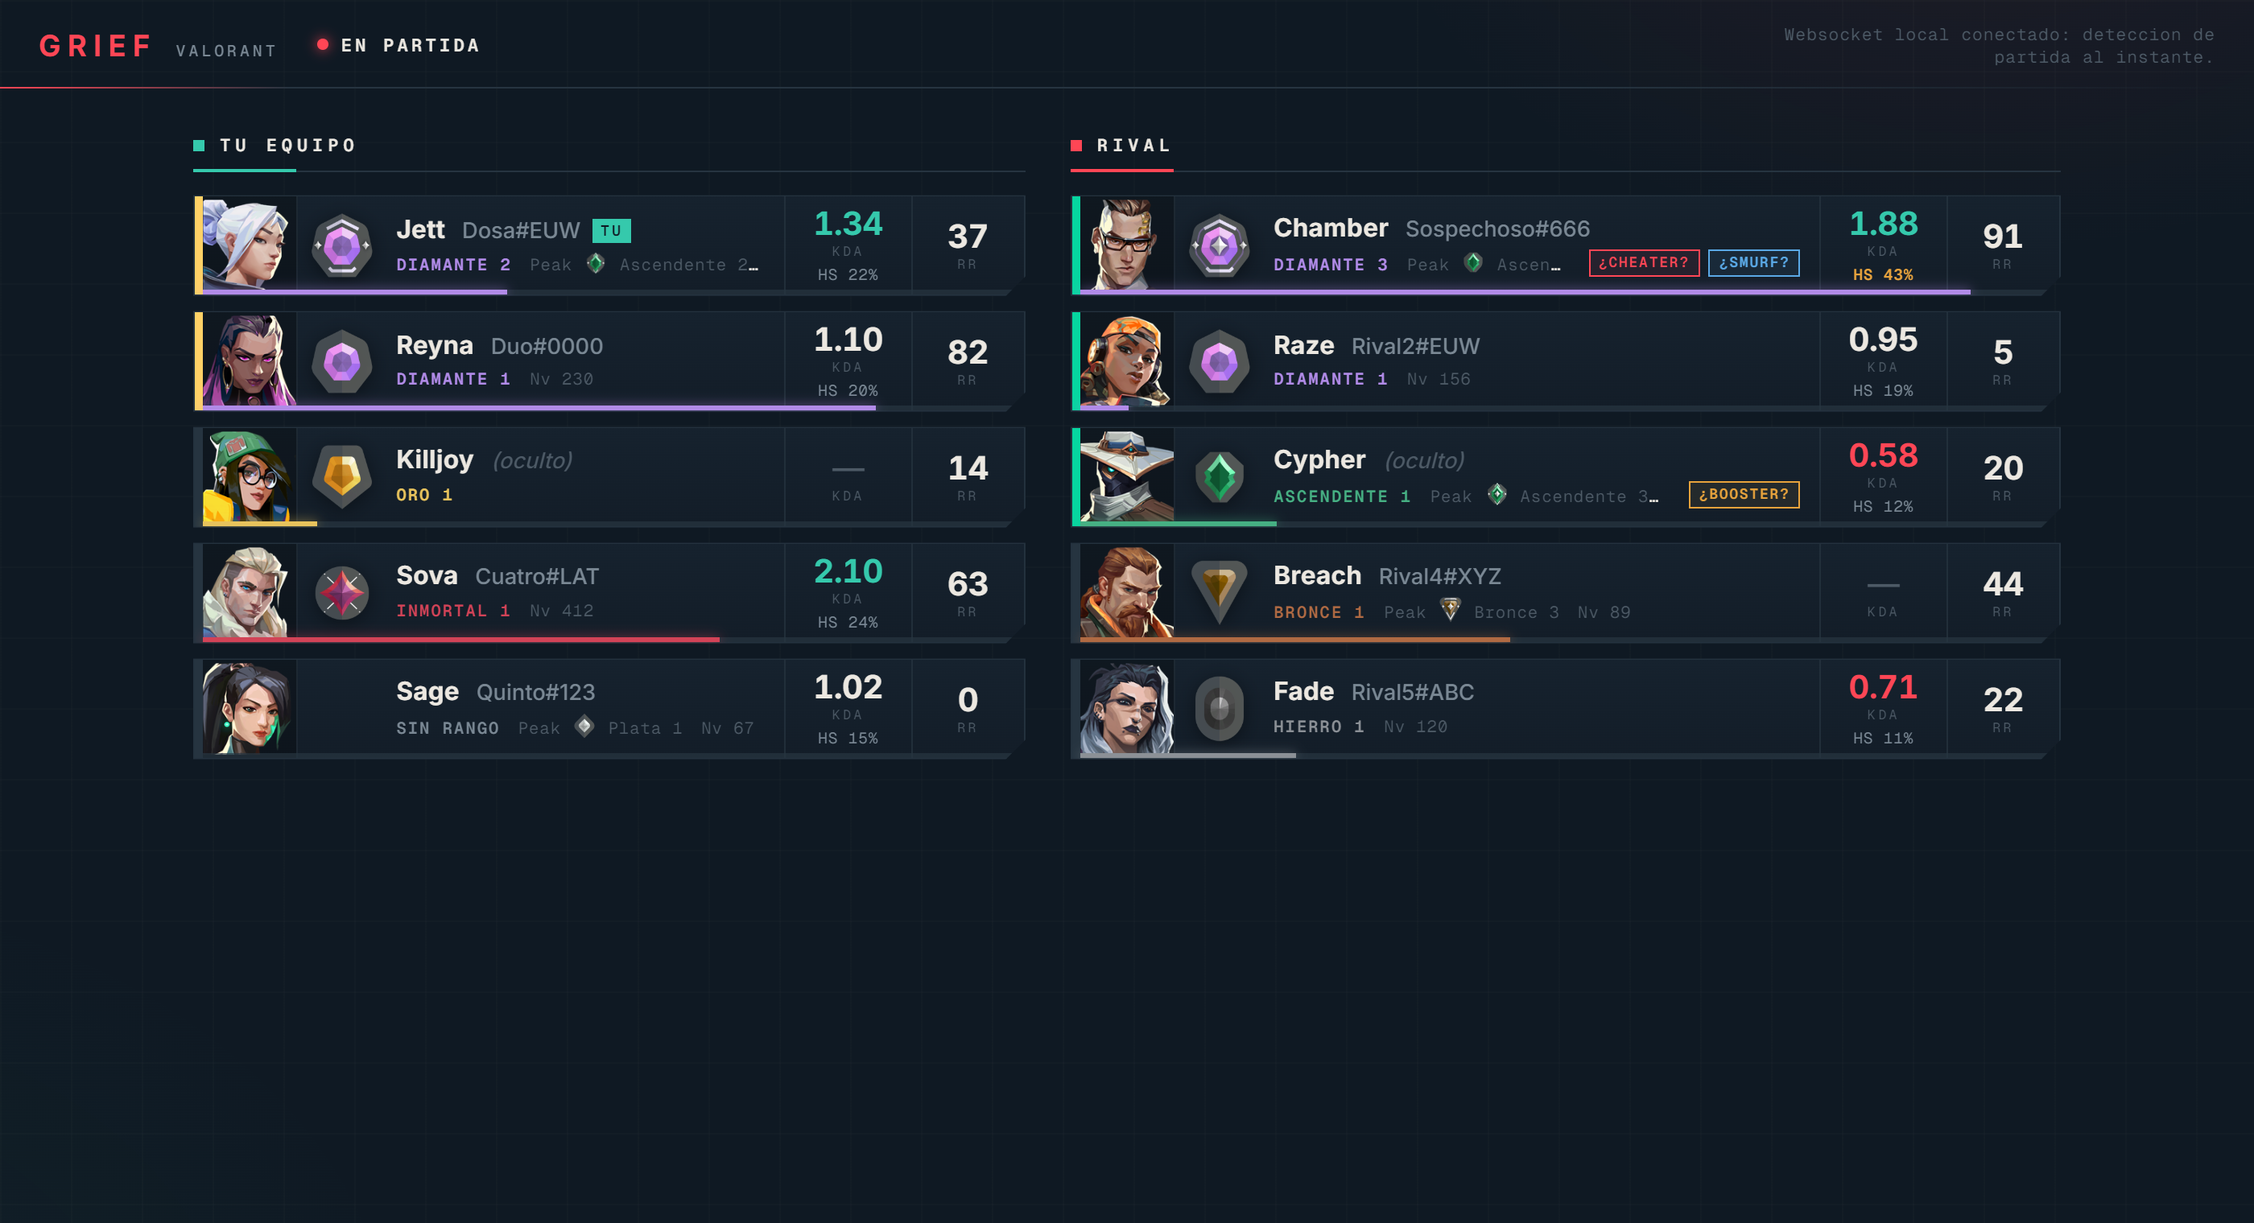
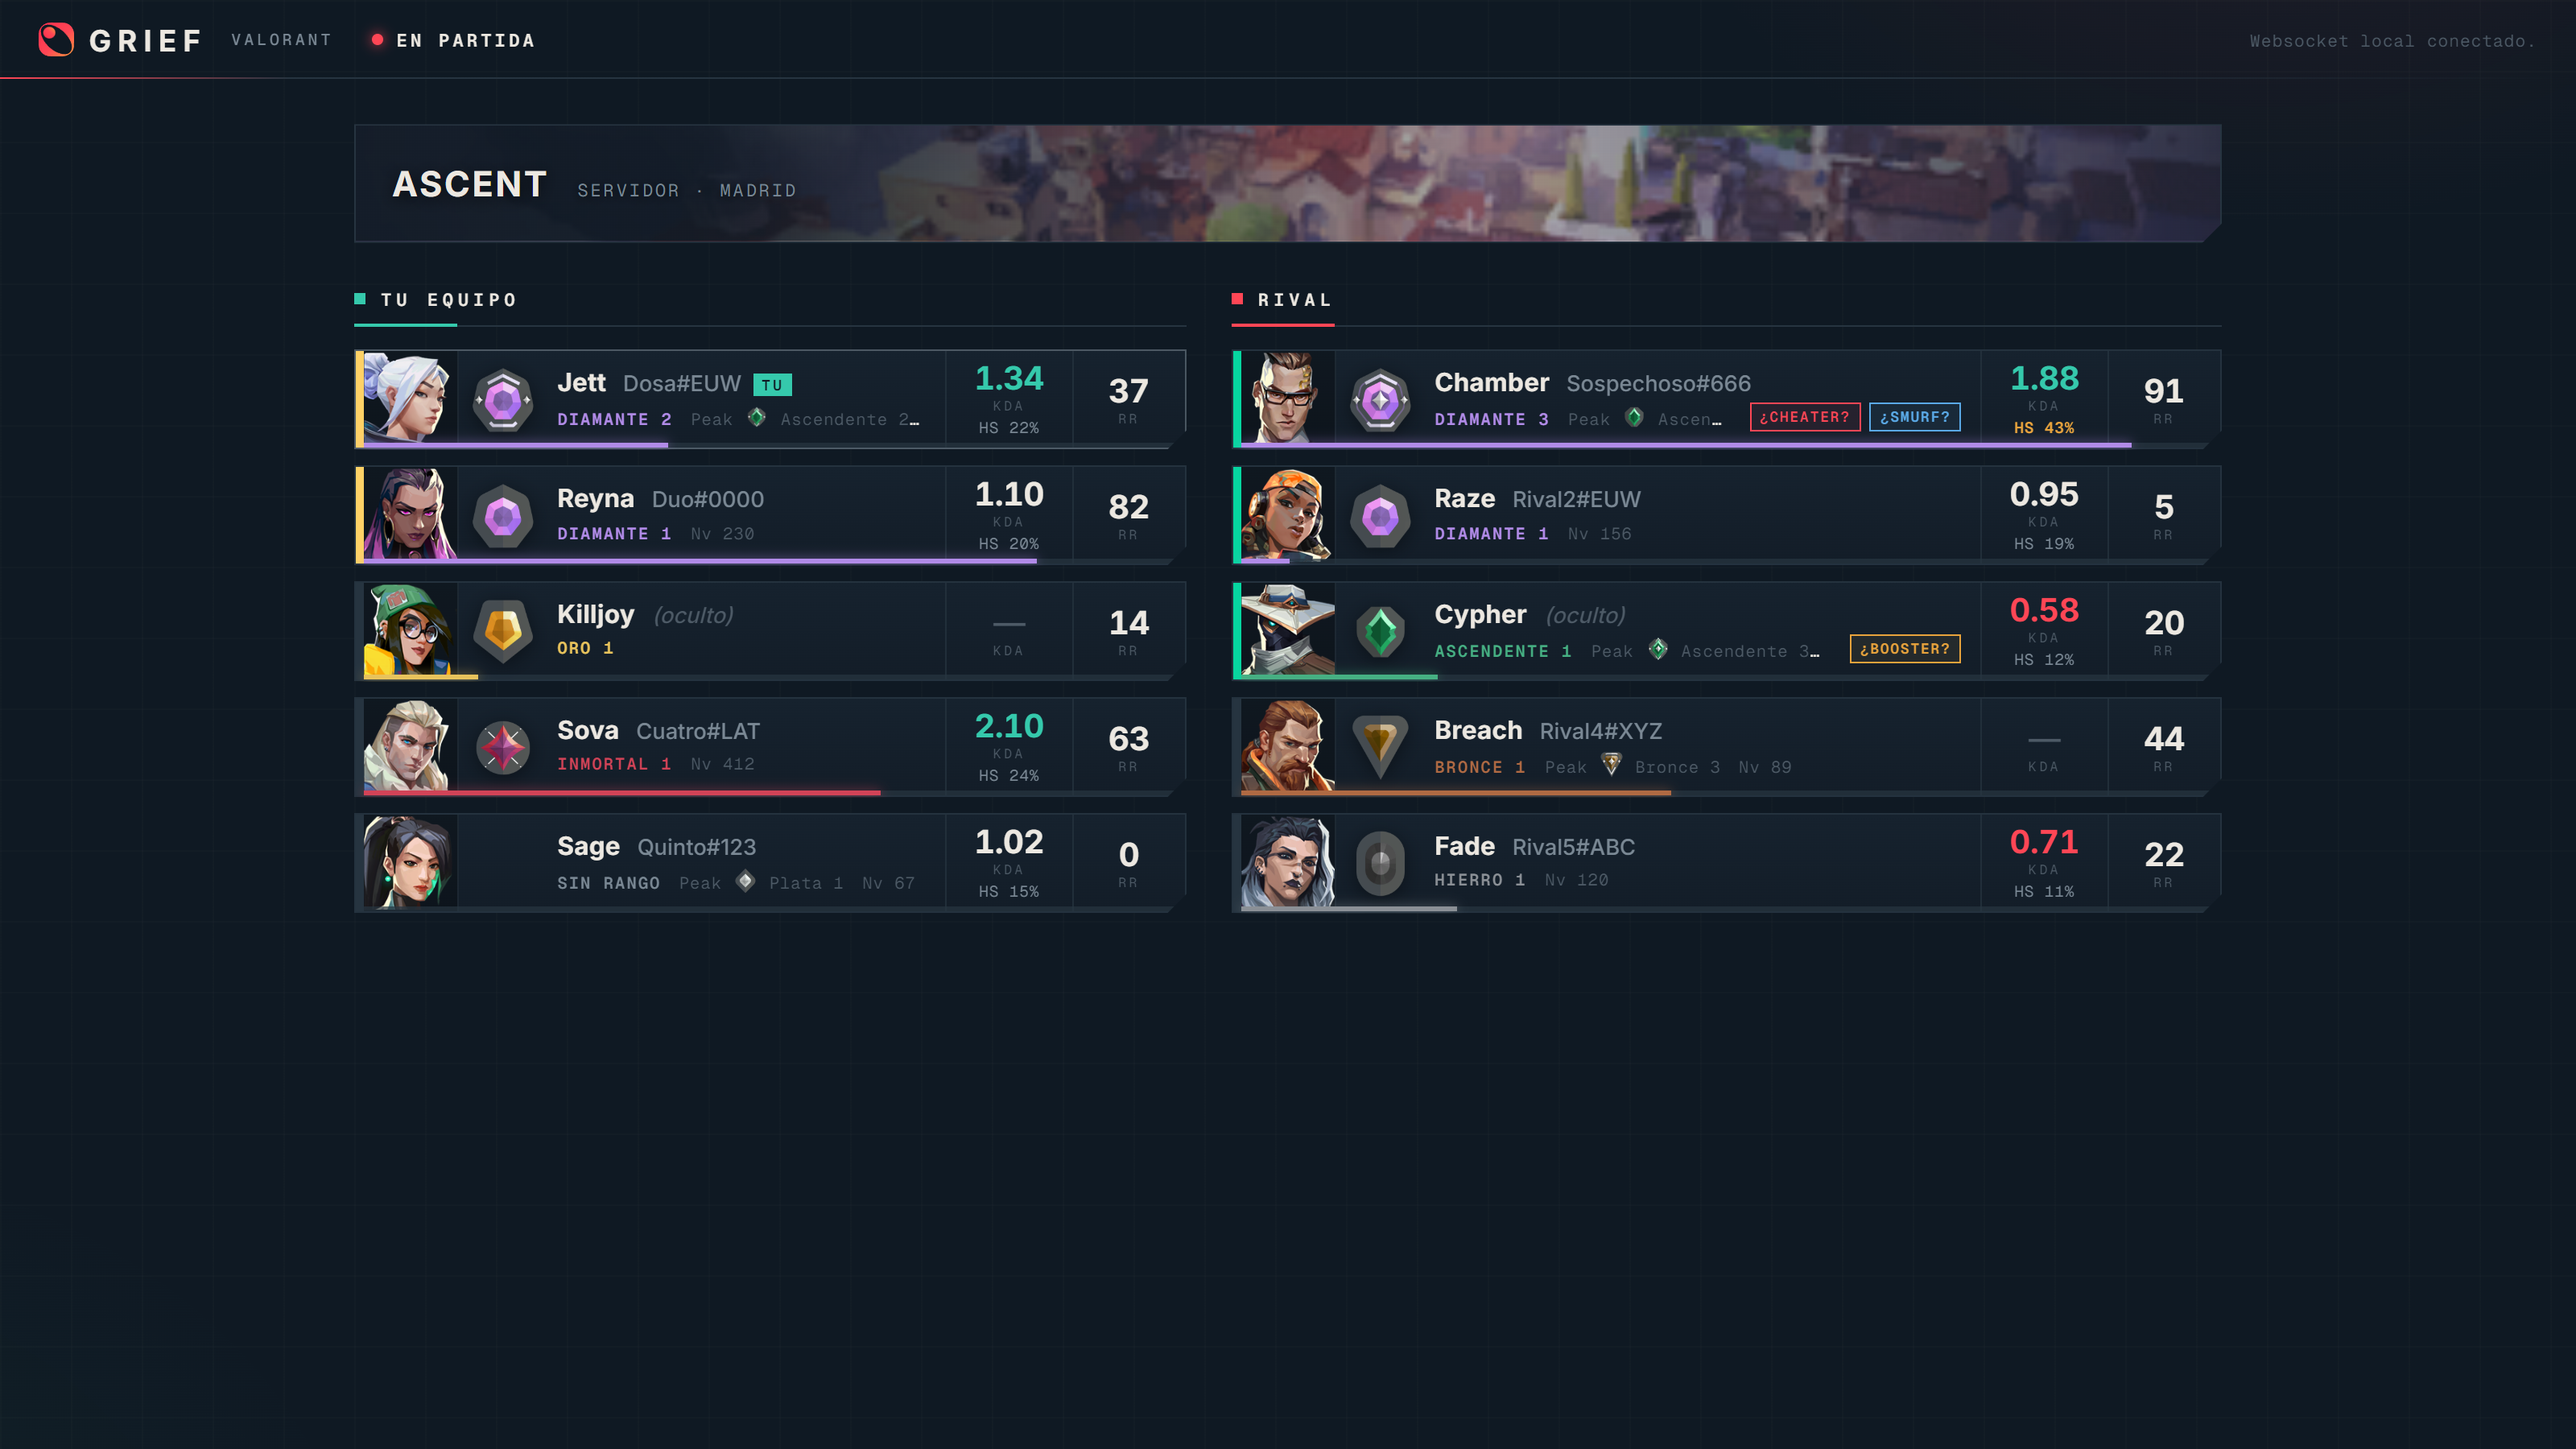
v0.2.0: wordmark sin degradado, boton de actualizacion y landing con animaciones
- El nombre GRIEF va plano en hueso; el degradado rojo-naranja queda solo en
  el isotipo (app y landing).
- Nuevo boton Actualizar en la barra: compara la version local (endpoint del
  servidor) contra la ultima release de GitHub y ofrece el instalador cuando
  hay version nueva (chequeo al abrir y cada 6 h).
- Landing: entrada escalonada del hero, reveal por scroll con
  IntersectionObserver, micro-interacciones en tarjetas/capturas/botones,
  respeto a prefers-reduced-motion, captura nueva de Valorant con banda de
  mapa y seccion de LoL con su captura.
- Artefactos con nombre estable (GRIEF-Setup.exe / GRIEF-Portable.exe) para
  que los enlaces de descarga no caduquen; version 0.2.0.

Claude-Session: https://claude.ai/code/session_01NZqfABLhiE2fJNSUw3mNUB

diff --git a/docs/index.html b/docs/index.html
@@ -72,8 +72,7 @@
     .marca img { width: 1.35rem; height: 1.35rem; }
     .marca b {
       font-family: var(--display); font-weight: 700; font-size: 1.2rem; letter-spacing: 0.22em;
-      background: linear-gradient(120deg, #ff2e4d, #ff4655 55%, #ff9a3d);
-      -webkit-background-clip: text; background-clip: text; color: transparent;
+      color: var(--hueso);
     }
     .marca-sub { font-family: var(--mono); font-size: 0.62rem; letter-spacing: 0.2em; text-transform: uppercase; color: var(--apagado); }
     nav { margin-left: auto; display: flex; gap: 1.5rem; }
@@ -164,9 +163,56 @@
     footer a:hover { color: var(--hueso); }
     footer .der { margin-left: auto; }
 
+    /* ---- Animaciones ---- */
+    @keyframes sube {
+      from { opacity: 0; transform: translateY(22px); }
+      to { opacity: 1; transform: translateY(0); }
+    }
+    .hero > * { animation: sube 0.7s cubic-bezier(0.16, 1, 0.3, 1) backwards; }
+    .hero > *:nth-child(1) { animation-delay: 0.05s; }
+    .hero > *:nth-child(2) { animation-delay: 0.15s; }
+    .hero > *:nth-child(3) { animation-delay: 0.25s; }
+    .hero > *:nth-child(4) { animation-delay: 0.35s; }
+    .hero > *:nth-child(5) { animation-delay: 0.42s; }
+    .hero > *:nth-child(6) { animation-delay: 0.55s; }
+    .hero > *:nth-child(7) { animation-delay: 0.62s; }
+
+    /* Reveal al hacer scroll (activado por JS con IntersectionObserver) */
+    .reveal {
+      opacity: 0;
+      transform: translateY(26px);
+      transition: opacity 0.7s cubic-bezier(0.16, 1, 0.3, 1), transform 0.7s cubic-bezier(0.16, 1, 0.3, 1);
+    }
+    .reveal.visto { opacity: 1; transform: none; }
+    .reveal:nth-child(2) { transition-delay: 0.08s; }
+    .reveal:nth-child(3) { transition-delay: 0.16s; }
+
+    /* Micro-interacciones */
+    .juego, .rasgo { transition: transform 0.25s ease, border-color 0.25s ease, background 0.25s ease; }
+    .juego:hover { transform: translateY(-4px); border-color: rgba(122, 136, 148, 0.55); }
+    .rasgo:hover { transform: translateY(-3px); }
+    .captura { transition: transform 0.4s ease, box-shadow 0.4s ease; }
+    .captura:hover { transform: translateY(-4px); box-shadow: 0 40px 90px rgba(0, 0, 0, 0.55); }
+    .btn { transition: filter 0.15s, background 0.15s, transform 0.15s; }
+    .btn:active { transform: translateY(1px); }
+    .marca img { transition: transform 0.4s ease; }
+    header:hover .marca img { transform: rotate(-12deg); }
+
+    /* Latido lento del glow del fondo */
+    @keyframes deriva {
+      0%, 100% { background-position: 0% 0%, 0% 0%; }
+      50% { background-position: 3% 2%, -2% -1%; }
+    }
+
     @media (max-width: 760px) {
       .juegos, .rasgos { grid-template-columns: 1fr; }
       nav { display: none; }
+    }
+
+    @media (prefers-reduced-motion: reduce) {
+      .hero > * { animation: none; }
+      .reveal { opacity: 1; transform: none; transition: none; }
+      .juego, .rasgo, .captura, .marca img { transition: none; }
     }
   </style>
 </head>
@@ -188,54 +234,56 @@
       <h1>Lee la partida <em>antes</em> de jugarla.</h1>
       <p class="sub">GRIEF vive en tu segunda pantalla y te muestra quien es cada uno en tu lobby: rango real, KDA reciente, parties y señales de smurfs o cuentas boosteadas. Sin overlay, sin tocar el juego, sin Overwolf.</p>
       <div class="botones" id="descargar">
-        <a class="btn btn-rojo" href="https://github.com/DosaAKA2A/GRIEF/releases/latest/download/GRIEF.Setup.0.1.0.exe">Descargar para Windows</a>
-        <a class="btn btn-borde" href="https://github.com/DosaAKA2A/GRIEF/releases/latest">Version portable</a>
+        <a class="btn btn-rojo" href="https://github.com/DosaAKA2A/GRIEF/releases/latest/download/GRIEF-Setup.exe">Descargar para Windows</a>
+        <a class="btn btn-borde" href="https://github.com/DosaAKA2A/GRIEF/releases/latest/download/GRIEF-Portable.exe">Version portable</a>
       </div>
       <p class="nota">Gratis · Windows 10/11 · codigo abierto</p>
       <figure class="captura"><img src="img/captura-valorant.png" alt="GRIEF mostrando una partida de Valorant con rangos, KDA y señales por jugador" width="2800" height="1520"></figure>
-      <p class="pie-captura">Partida de Valorant: los 10 con rango, RR, KDA y señales</p>
+      <p class="pie-captura">Partida de Valorant: mapa y servidor, los 10 con rango, RR, KDA y señales</p>
     </section>
 
     <section id="juegos">
-      <p class="eyebrow-seccion">Dos juegos, una app</p>
-      <h2>Detecta solo el juego que este vivo.</h2>
+      <p class="eyebrow-seccion reveal">Dos juegos, una app</p>
+      <h2 class="reveal">Detecta solo el juego que este vivo.</h2>
       <div class="juegos">
-        <div class="juego">
+        <div class="juego reveal">
           <span class="titulo">VALORANT</span><span class="estado-j completo">Completo</span>
           <p>Desde la seleccion de agentes: mapa y servidor, rango e insignia, RR, peak, KDA y HS% de las ultimas competitivas, nivel de cuenta, parties marcadas por color y señales de posible cheater, smurf o booster.</p>
         </div>
-        <div class="juego">
+        <div class="juego reveal">
           <span class="titulo">LEAGUE OF LEGENDS</span><span class="estado-j completo">Activo</span>
           <p>En seleccion de campeones ves a tu equipo con rango, LP y emblema; en partida, los 10 con su campeon, el lado que te toco y KDA en vivo de la propia API del juego.</p>
         </div>
       </div>
+      <figure class="captura reveal" style="margin-top:3rem"><img src="img/captura-lol.png" alt="GRIEF mostrando una partida de League of Legends con el lado rojo, campeones y KDA en vivo" width="2800" height="1520" loading="lazy"></figure>
+      <p class="pie-captura reveal">League of Legends: tu lado del mapa, campeones, emblemas y KDA en vivo</p>
     </section>
 
     <section id="rasgos">
-      <p class="eyebrow-seccion">Que hace distinto</p>
-      <h2>Informacion honesta, al instante.</h2>
+      <p class="eyebrow-seccion reveal">Que hace distinto</p>
+      <h2 class="reveal">Informacion honesta, al instante.</h2>
       <div class="rasgos">
-        <div class="rasgo">
+        <div class="rasgo reveal">
           <h3>Señales, no acusaciones</h3>
           <p>Posible Cheater, Posible Smurf y Posible Booster salen de un puntaje con varias evidencias (HS%, RR por victoria, edad de cuenta, rachas). El motivo exacto siempre esta en el tooltip.</p>
         </div>
-        <div class="rasgo">
+        <div class="rasgo reveal">
           <h3>Parties a la vista</h3>
           <p>Mismo color en la espina de la fila: van juntos. Funciona incluso con jugadores en modo incognito y con el equipo rival.</p>
         </div>
-        <div class="rasgo">
+        <div class="rasgo reveal">
           <h3>Deteccion al instante</h3>
           <p>Un websocket local avisa en cuanto arranca la seleccion de agentes. Nada de refrescar ni esperar sondeos.</p>
         </div>
-        <div class="rasgo">
+        <div class="rasgo reveal">
           <h3>Sin overlay ni inyecciones</h3>
           <p>GRIEF nunca toca el proceso del juego ni su memoria. Lee las API oficiales del cliente, como hacen las webs de stats, pero en tu maquina.</p>
         </div>
-        <div class="rasgo">
+        <div class="rasgo reveal">
           <h3>Ligero de verdad</h3>
           <p>El tracker corre sin dependencias sobre Node y la app pesa lo que pesa su ventana. Pensado para la segunda pantalla.</p>
         </div>
-        <div class="rasgo">
+        <div class="rasgo reveal">
           <h3>Tus datos, en tu PC</h3>
           <p>No hay cuenta, no hay servidor nuestro, no hay telemetria. Todo se consulta desde tu equipo directo a las API de cada juego.</p>
         </div>
@@ -243,10 +291,10 @@
     </section>
 
     <section class="final">
-      <p class="eyebrow-seccion">Listo en un minuto</p>
-      <h2>Instala, juega, y GRIEF hace el resto.</h2>
-      <div class="botones">
-        <a class="btn btn-rojo" href="https://github.com/DosaAKA2A/GRIEF/releases/latest/download/GRIEF.Setup.0.1.0.exe">Descargar para Windows</a>
+      <p class="eyebrow-seccion reveal">Listo en un minuto</p>
+      <h2 class="reveal">Instala, juega, y GRIEF hace el resto.</h2>
+      <div class="botones reveal">
+        <a class="btn btn-rojo" href="https://github.com/DosaAKA2A/GRIEF/releases/latest/download/GRIEF-Setup.exe">Descargar para Windows</a>
         <a class="btn btn-borde" href="https://github.com/DosaAKA2A/GRIEF/releases/latest">Todas las versiones</a>
       </div>
     </section>
@@ -258,5 +306,23 @@
       <span class="der">No afiliado a Riot Games</span>
     </footer>
   </div>
+
+  <script>
+    // Reveal al hacer scroll; si no hay IntersectionObserver, todo visible.
+    const revelables = document.querySelectorAll(".reveal");
+    if ("IntersectionObserver" in window && !matchMedia("(prefers-reduced-motion: reduce)").matches) {
+      const obs = new IntersectionObserver((entradas) => {
+        for (const e of entradas) {
+          if (e.isIntersecting) {
+            e.target.classList.add("visto");
+            obs.unobserve(e.target);
+          }
+        }
+      }, { threshold: 0.12, rootMargin: "0px 0px -40px 0px" });
+      revelables.forEach((el) => obs.observe(el));
+    } else {
+      revelables.forEach((el) => el.classList.add("visto"));
+    }
+  </script>
 </body>
 </html>

diff --git a/src/ui/app.js b/src/ui/app.js
@@ -211,6 +211,28 @@ function pintar(estado) {
   $("equipos").classList.toggle("solo-aliado", rivales.length === 0);
 }
 
+// Aviso de actualizacion: compara la version local con la ultima release
+// publicada en GitHub; si hay una nueva, muestra el boton con el instalador.
+async function revisarActualizacion() {
+  try {
+    const [local, release] = await Promise.all([
+      fetch("/version").then((r) => r.json()),
+      fetch("https://api.github.com/repos/DosaAKA2A/GRIEF/releases/latest").then((r) => r.json()),
+    ]);
+    const remota = (release.tag_name ?? "").replace(/^v/, "");
+    if (!remota || remota === local.version) return;
+    const setup = release.assets?.find((a) => /setup/i.test(a.name) && a.name.endsWith(".exe"));
+    const boton = $("actualizar");
+    boton.textContent = `Actualizar a v${remota}`;
+    boton.href = setup?.browser_download_url ?? release.html_url;
+    boton.hidden = false;
+  } catch {
+    // sin red o sin release: no molestamos
+  }
+}
+revisarActualizacion();
+setInterval(revisarActualizacion, 6 * 3600e3); // re-chequea cada 6 h
+
 function conectar() {
   const fuente = new EventSource("/events");
   fuente.onmessage = (ev) => pintar(JSON.parse(ev.data));

diff --git a/src/ui/style.css b/src/ui/style.css
@@ -77,10 +77,7 @@ body::before {
   font-weight: 700;
   font-size: 1.15rem;
   letter-spacing: 0.22em;
-  background: linear-gradient(120deg, #ff2e4d, #ff4655 55%, #ff9a3d);
-  -webkit-background-clip: text;
-  background-clip: text;
-  color: transparent;
+  color: var(--hueso);
 }
 .marca .marca-sub { margin-left: 0.35rem; }
 .marca .marca-sub {
@@ -113,6 +110,24 @@ body::before {
 @keyframes latido {
   50% { opacity: 0.3; }
 }
+
+/* Boton de actualizacion: solo aparece cuando hay una version nueva */
+.actualizar {
+  margin-left: auto;
+  font-family: var(--mono);
+  font-weight: 600;
+  font-size: 0.62rem;
+  letter-spacing: 0.14em;
+  text-transform: uppercase;
+  text-decoration: none;
+  color: var(--fondo);
+  background: linear-gradient(120deg, #ff2e4d, #ff4655 55%, #ff9a3d);
+  padding: 0.4rem 0.85rem;
+  clip-path: polygon(0 0, 100% 0, 100% calc(100% - 8px), calc(100% - 8px) 100%, 0 100%);
+  transition: filter 0.15s;
+}
+.actualizar:hover { filter: brightness(1.15); }
+.actualizar:not([hidden]) ~ .estado { margin-left: 1rem; }
 
 .estado {
   margin-left: auto;

diff --git a/src/serve.js b/src/serve.js
@@ -9,6 +9,13 @@ import { MultiTracker } from "./games.js";
 
 const UI_DIR = join(dirname(fileURLToPath(import.meta.url)), "ui");
 
+// Version propia (para que la UI compare contra la ultima release publicada).
+let VERSION = "0.0.0";
+try {
+  const pkg = JSON.parse(await readFile(join(dirname(fileURLToPath(import.meta.url)), "..", "package.json"), "utf8"));
+  VERSION = pkg.version ?? VERSION;
+} catch {}
+
 const MIME = {
   ".html": "text/html; charset=utf-8",
   ".css": "text/css; charset=utf-8",
@@ -39,6 +46,11 @@ export function startServer({ port = 4327 } = {}) {
 
   const server = http.createServer(async (req, res) => {
     const path = req.url.split("?")[0];
+    if (path === "/version") {
+      res.writeHead(200, { "Content-Type": "application/json" });
+      res.end(JSON.stringify({ version: VERSION }));
+      return;
+    }
     if (path === "/events") {
       res.writeHead(200, {
         "Content-Type": "text/event-stream",

diff --git a/src/ui/index.html b/src/ui/index.html
@@ -13,6 +13,7 @@
     <div id="fase" class="fase" hidden>
       <i class="fase-punto"></i><span id="fase-texto"></span>
     </div>
+    <a id="actualizar" class="actualizar" hidden target="_blank" rel="noopener">Actualizar</a>
     <div id="estado" class="estado">Conectando...</div>
   </header>
 
